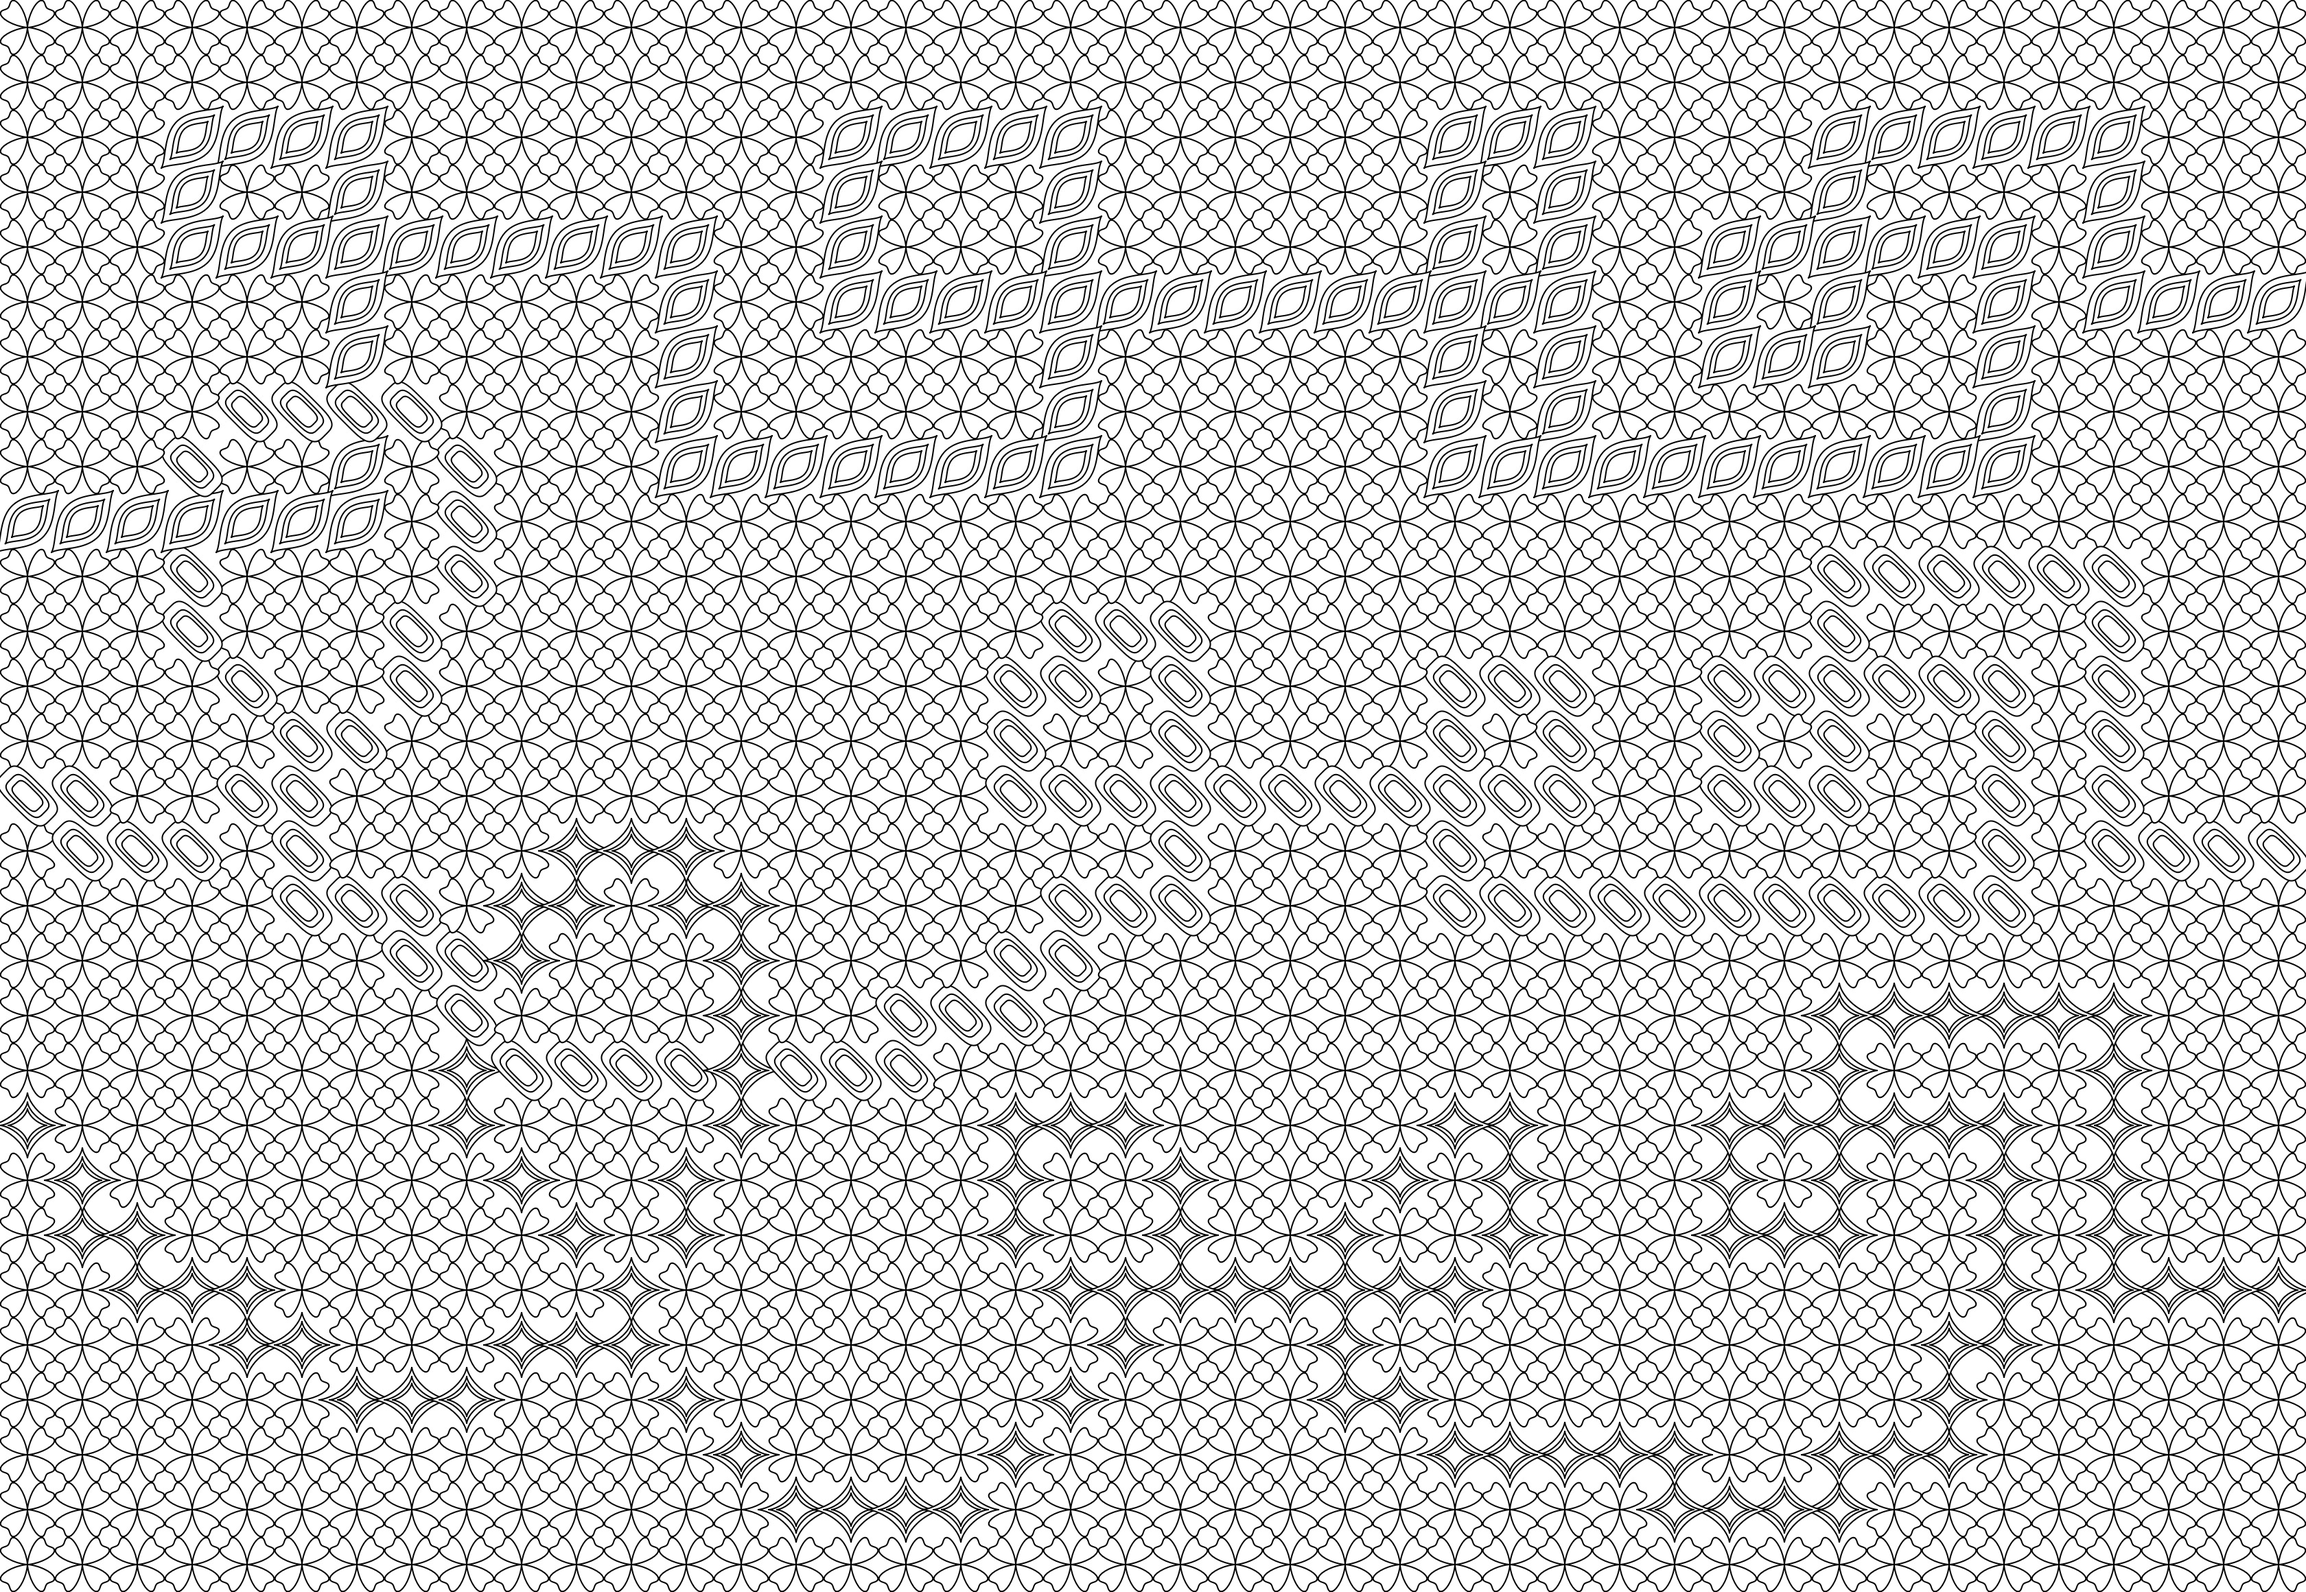
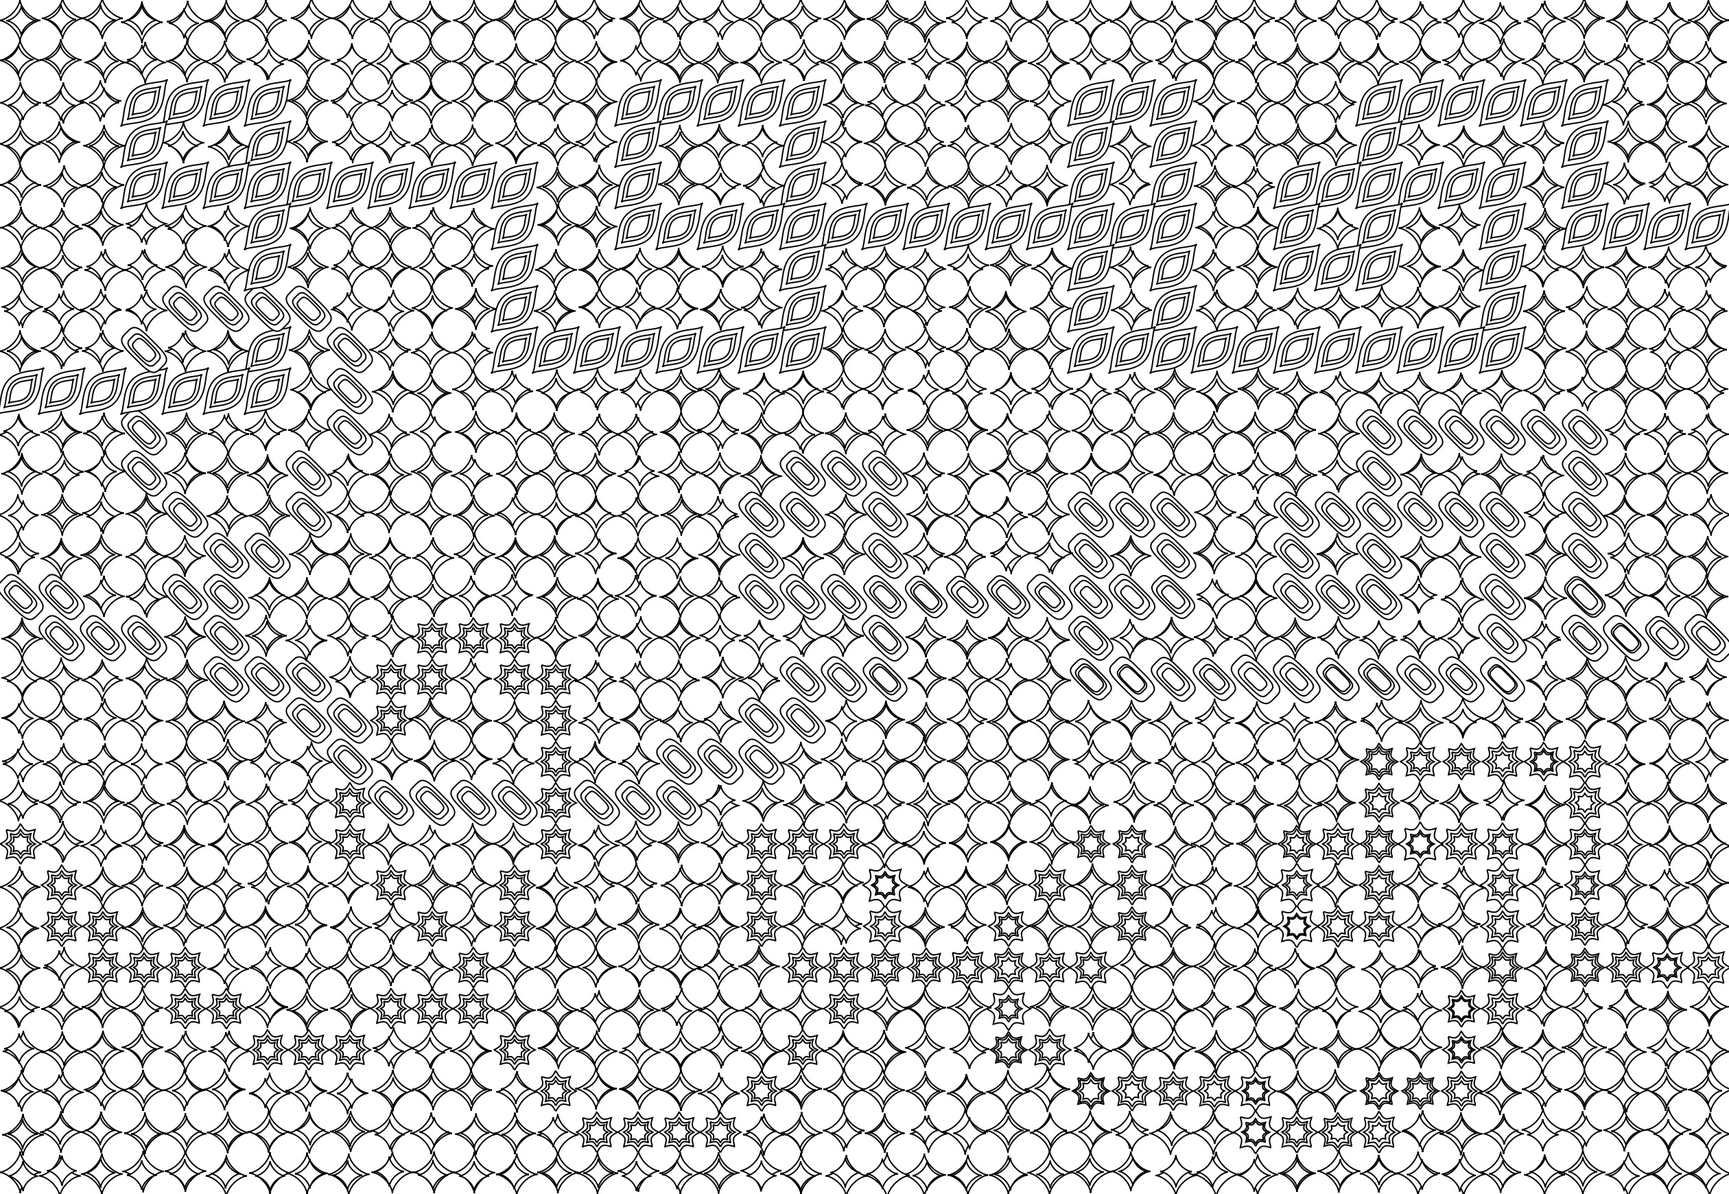
update example images

diff --git a/README.md b/README.md
@@ -2,16 +2,22 @@
 
 This code creates a zentangles generator in p5.js.
 
-## Resources
 
-- [shape playground](https://kfahn22.github.io/shape_playground/)
+## Generating Grid Images
+
+I am using low resolution grayscale images to determine which shapes are rendered in the grid. The images are created using several different methods. First, I did a search for free cross stitch patterns, and then adapted the ones that I thought would be best suited to my use case. I stuck to fairly simple designs, such as flowers and animals. Second, I uploaded some of my landscape images 
+
+
+While it would be possible to expand beyond 4 colors, for simplicity sake that is all I am using.
+
+
 
 - [piskel](https://www.piskelapp.com/)
-
-https://github.com/kfahn22/l-system-examples/blob/main/example-dropdown.js
-
-https://github.com/kfahn22/zentangles/tree/main
 
 https://github.com/CodingTrain/Wave-Function-Collapse/tree/main/p5js/overlapping-model/images
 
 https://www.lovecrafts.com/en-us/p/sunflower-in-dmc-pat0883-downloadable-pdf
+
+## Resources
+
+- [shape playground](https://kfahn22.github.io/shape_playground/)
